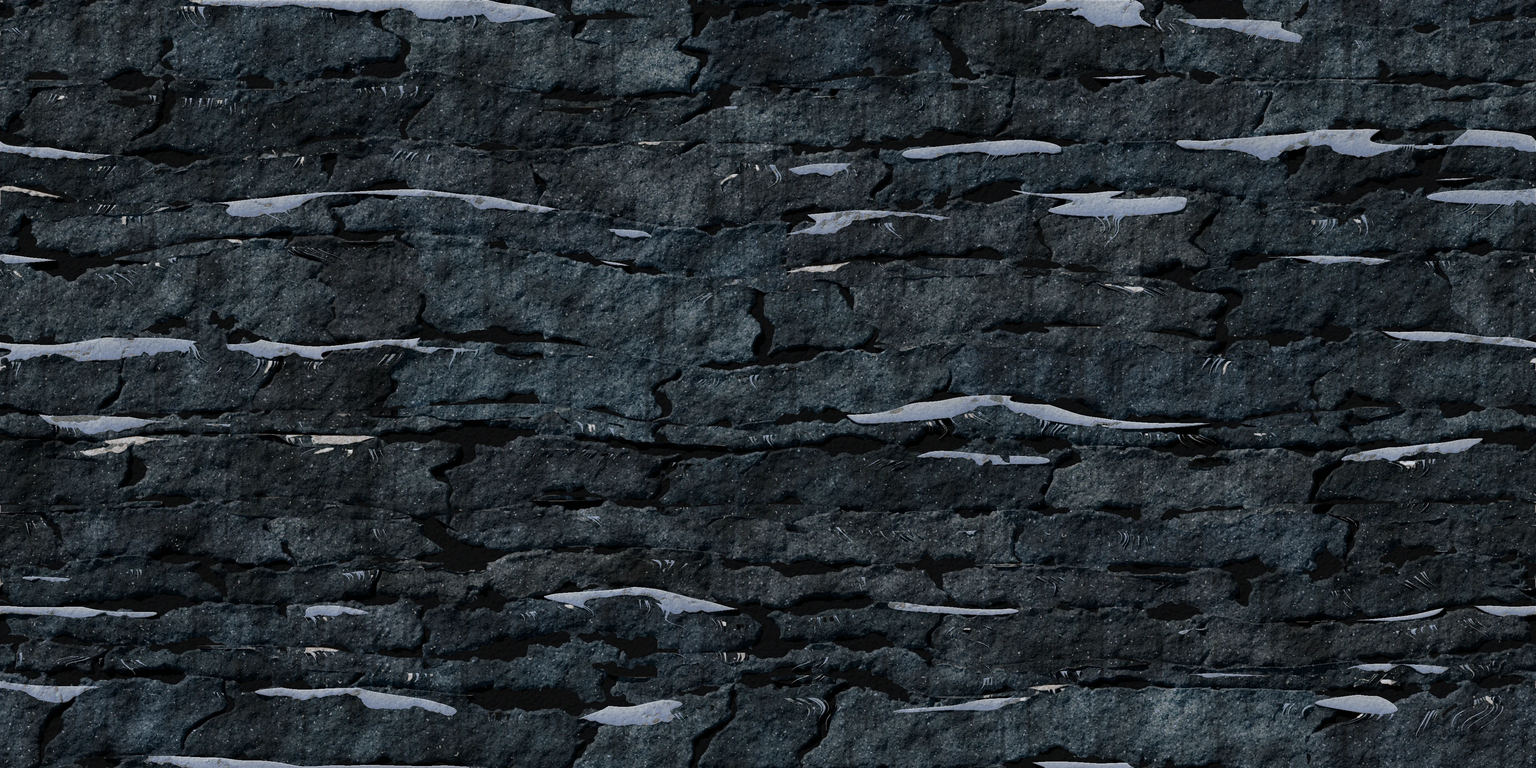
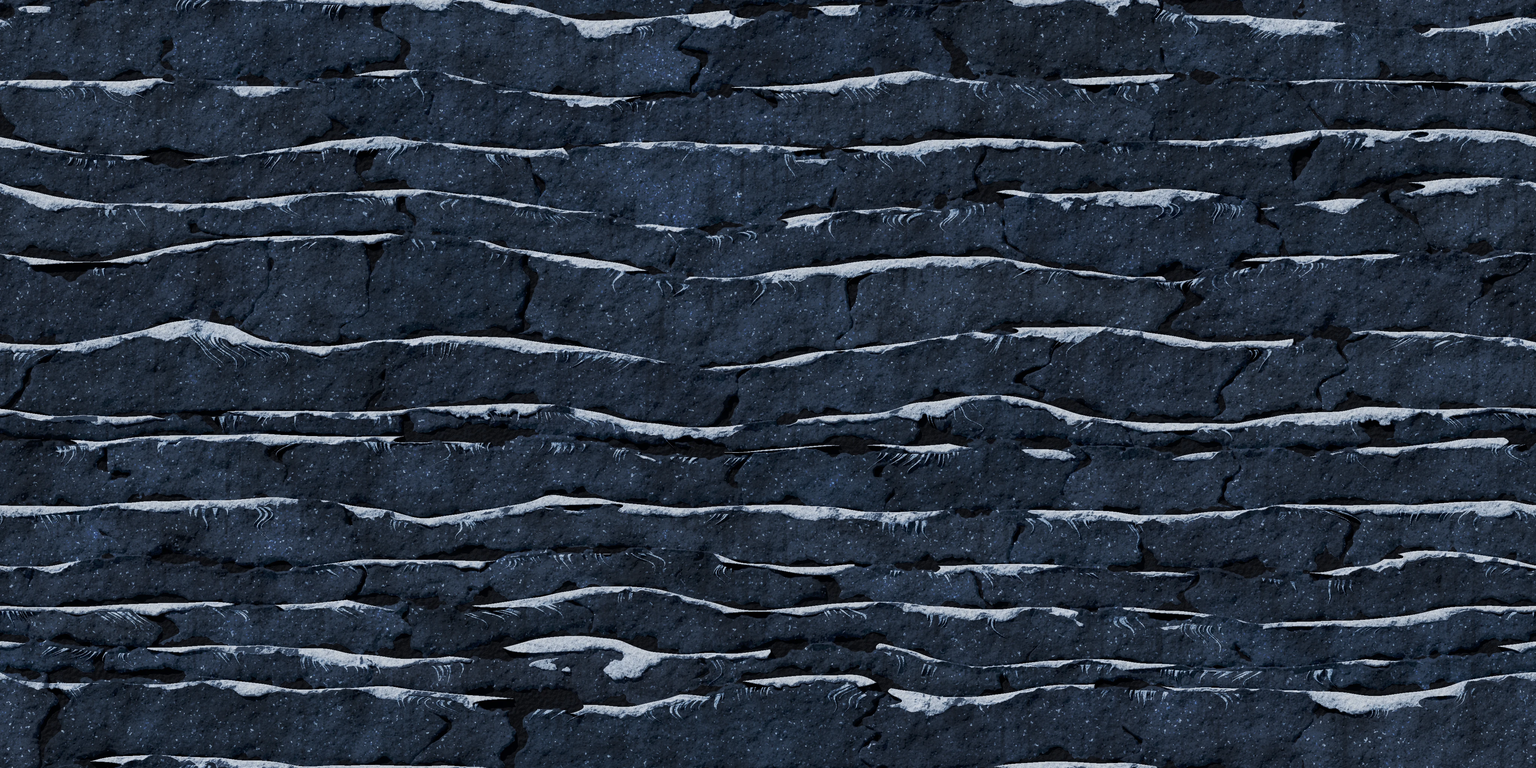
Версия 2026.10.19-81: порода Арктики заново в Blender — ярусы с тонкой снежной кромкой на каждом уступе, вдвое больше сосулек и инея, как в эталоне
Claude-Session: https://claude.ai/code/session_01JvXrYdG1XCH4i3GESsQzbh

Changed region(s): [[0.0, 0.0, 1.0, 1.0], [0.5312, 0.0, 0.5938, 0.0312], [0.0, 0.0, 0.0312, 0.0625]]

diff --git a/index.html b/index.html
@@ -114,7 +114,7 @@
         </div>
       </div>
     </div>
-    <footer class="menu-footer"><span id="game-version">ВЕРСИЯ 2026.10.19-80</span><span>ПЛАНИРУЙ ХОД. МЕНЯЙ ЛАНДШАФТ.</span><span class="footer-status"><i></i> ГОТОВ К БОЮ</span></footer>
+    <footer class="menu-footer"><span id="game-version">ВЕРСИЯ 2026.10.19-81</span><span>ПЛАНИРУЙ ХОД. МЕНЯЙ ЛАНДШАФТ.</span><span class="footer-status"><i></i> ГОТОВ К БОЮ</span></footer>
   </section>
 
   <!-- Онлайн -->

diff --git a/dev/blender/make_masonry.py b/dev/blender/make_masonry.py
@@ -58,10 +58,10 @@ STYLES = {
     # r26 → v51: «обои» — сплошная белая нитка снега на каждом ряду; теперь снег пятнами (~⅓ уступов), но толще, ряды
     # разной высоты (22–56), швы между глыбами глубже, камень светлее ~15 % (как в эталоне — голубоватые грани)
     'strata': dict(name='rock_arctic', seed=61, T=1024, TY=512, hr=(22, 56), wr=(60, 300), joint=2.6, bev=3.2, recess=2.8, tilt=0.8,
-                   slant=(8, 32), ledge=3.4, mottk=0.2, frostT=2.35,
+                   slant=(8, 32), ledge=3.4, mottk=0.2, frostT=1.9,   # v80 (r32: в эталоне 90-й процентиль яркости 111, у нас 54): инея больше
                    stone=[(58, 69, 85), (53, 62, 78), (65, 76, 92), (47, 57, 71), (57, 67, 83)],   # r27: холоднее (−8 % красного)
                    mortar=(13, 15, 20), lichen=0.0, moss=0.0, wob=2.8, rough=1.6, warp=(6.5, 5.5),
-                   snow=dict(th=(6.5, 15), col=(232, 238, 250), gaps=0.35, icicles=1.7),   # r27: шапки вдвое толще
+                   snow=dict(th=(3.0, 7.5), col=(232, 238, 250), gaps=-0.6, icicles=3.0),   # v80: тонкая почти сплошная полоса снега на каждом уступе и вдвое больше сосулек (эталон), а не толстые «линзы»
                    light=dict(col=(0.82, 0.88, 1.0), elev=32, energy=4.2)),
     # вулкан (критик r26–27: нет крупных плит, лава — пятна): базальтовые плиты 30–70 × 90–260 ед., в трети швов —
     # светящийся расплав (свечение в Blender → слой свечения игры), тёплый свет снизу

diff --git a/dev/NEXT_STEPS.md b/dev/NEXT_STEPS.md
@@ -320,6 +320,7 @@
 - v70 (17.10): Alien — значки-«бабочки» в насыпи (L>175) на 60 % убраны, остальные — насыщенные кристаллы с отсветом (dev/tools/alien_crystals.py); gain породы [1.12, 1.28, 0.72] по эталону (порода была в 1,7 раза светлее и фиолетовой). ВНИМАНИЕ: кадр auto выбирается случайно (то остров, то станция) — для замеров cmatch брать фиксированную камеру (alien:1700:1000).
 - v71 (17.10): замки — кладка stone_castle крупнее (ряды 19–31, камни 30–74 ед.), больше мха/лишайника; перерендер в облаке через bpy (HF_R=4, 4 блока ~2,5 мин на CPU) → stitch_blocks → make_native (палитра подогнана к прежней; старая — dev/tex-backup/stone_castle.png). Фонари под деревянными потолками освещают заднюю стену (свет прибавляется к пикселям слоя ландшафта, R=120; раньше рисовался в слой декора за стеной и не был виден). Дальше: деревья (дуб/берёза низкополигональные: крупные плоские листья, ствол-цилиндр — dev/blender/make_textures.py tree_sprite, render_sprites_hi.py), доски корабля мельче с фактурой, перекрытия замков толще.
 - v72 (17.10): деревья — дуб и берёза из Blender гуще: листья 3 см вместо 4,5, по 420/300 в облаке, облака крупнее и перекрываются, ствол дуба тоньше (make_textures.py tree_sprite); рендер в облаке `SPRITE_K=3 SPRITE_OUT=... python dev/blender/render_sprites_hi.py -- tree_oak1 tree_oak2 tree_oak3 tree_birch1` (~5 мин/дерево на CPU) → assets/tex/surface/*.png (960) и малые 320 — уменьшение с премультипликацией; прежние — dev/tex-backup/trees. Обшивка корабля: ряды досок 16 ед. вместо 24 (dev/tools/make_hull_planks.py, как в эталоне 15–20 px).
+- v73–81 (19.10): критик r29–r32 (dev/reviews/r29.md). Сделано: оттенок пород Арктики/вулкана по замерам, каньон — новый песчаник (make_masonry sandstone: пласты 36–80, глыбы 220–700) + tone_even.py, вулкан — сеть светящихся трещин поверх фото-плит (terrain_visual, S.hotCore), Alien — гриб без засвета, стальная ферма, замки — закат на гребне и плющ по задней стене (backArr; ВНИМАНИЕ: T.back в drawSurfaceDetails не задан — проверки T.back там мёртвые), пираты — ящики/бочки, ореол фонарей, пробоина не сквозная, город — антенны только на крышах, свечение декора за ландшафтом скрыто, деревья — кроны с тенью. v81: порода Арктики перерендерена (make_masonry strata: снег th 3–7.5, gaps −0.6, сосулек ×2, иней frostT 1.9) — dev/tools/arctic_snow_relief.py больше НЕ запускать (он берёт старую родную из dev/tex-backup и откатит). Автообновление лаунчера start-game.ps1 (ff-only) — разрешено владельцем 19.10.
 - Ещё не исправлено (по заметности): каньон — конец арки оторван от плато x≈3456–3478, кирпичный кубик x422–569, обломок крыши x1300–1360; арктика — красный модуль станции на пике x2184–2304 (возможно, оставить: полярные станции красные); пиратская — круглая пробоина x2189–2271 (задумана, вырез); alien — прорезь в острове x2222–2256; valley — дренажные окна в пролётах моста (вырезы, оставлены); каньон — разрыв арки x≈3480 — это шахта лестницы (в игре лестница видна); общее — висящая верёвочная лестница в правой пропасти x≈4730–4830 (до воды не доходит).
 
 ## Оружие (A2) — ход работы 16.10
